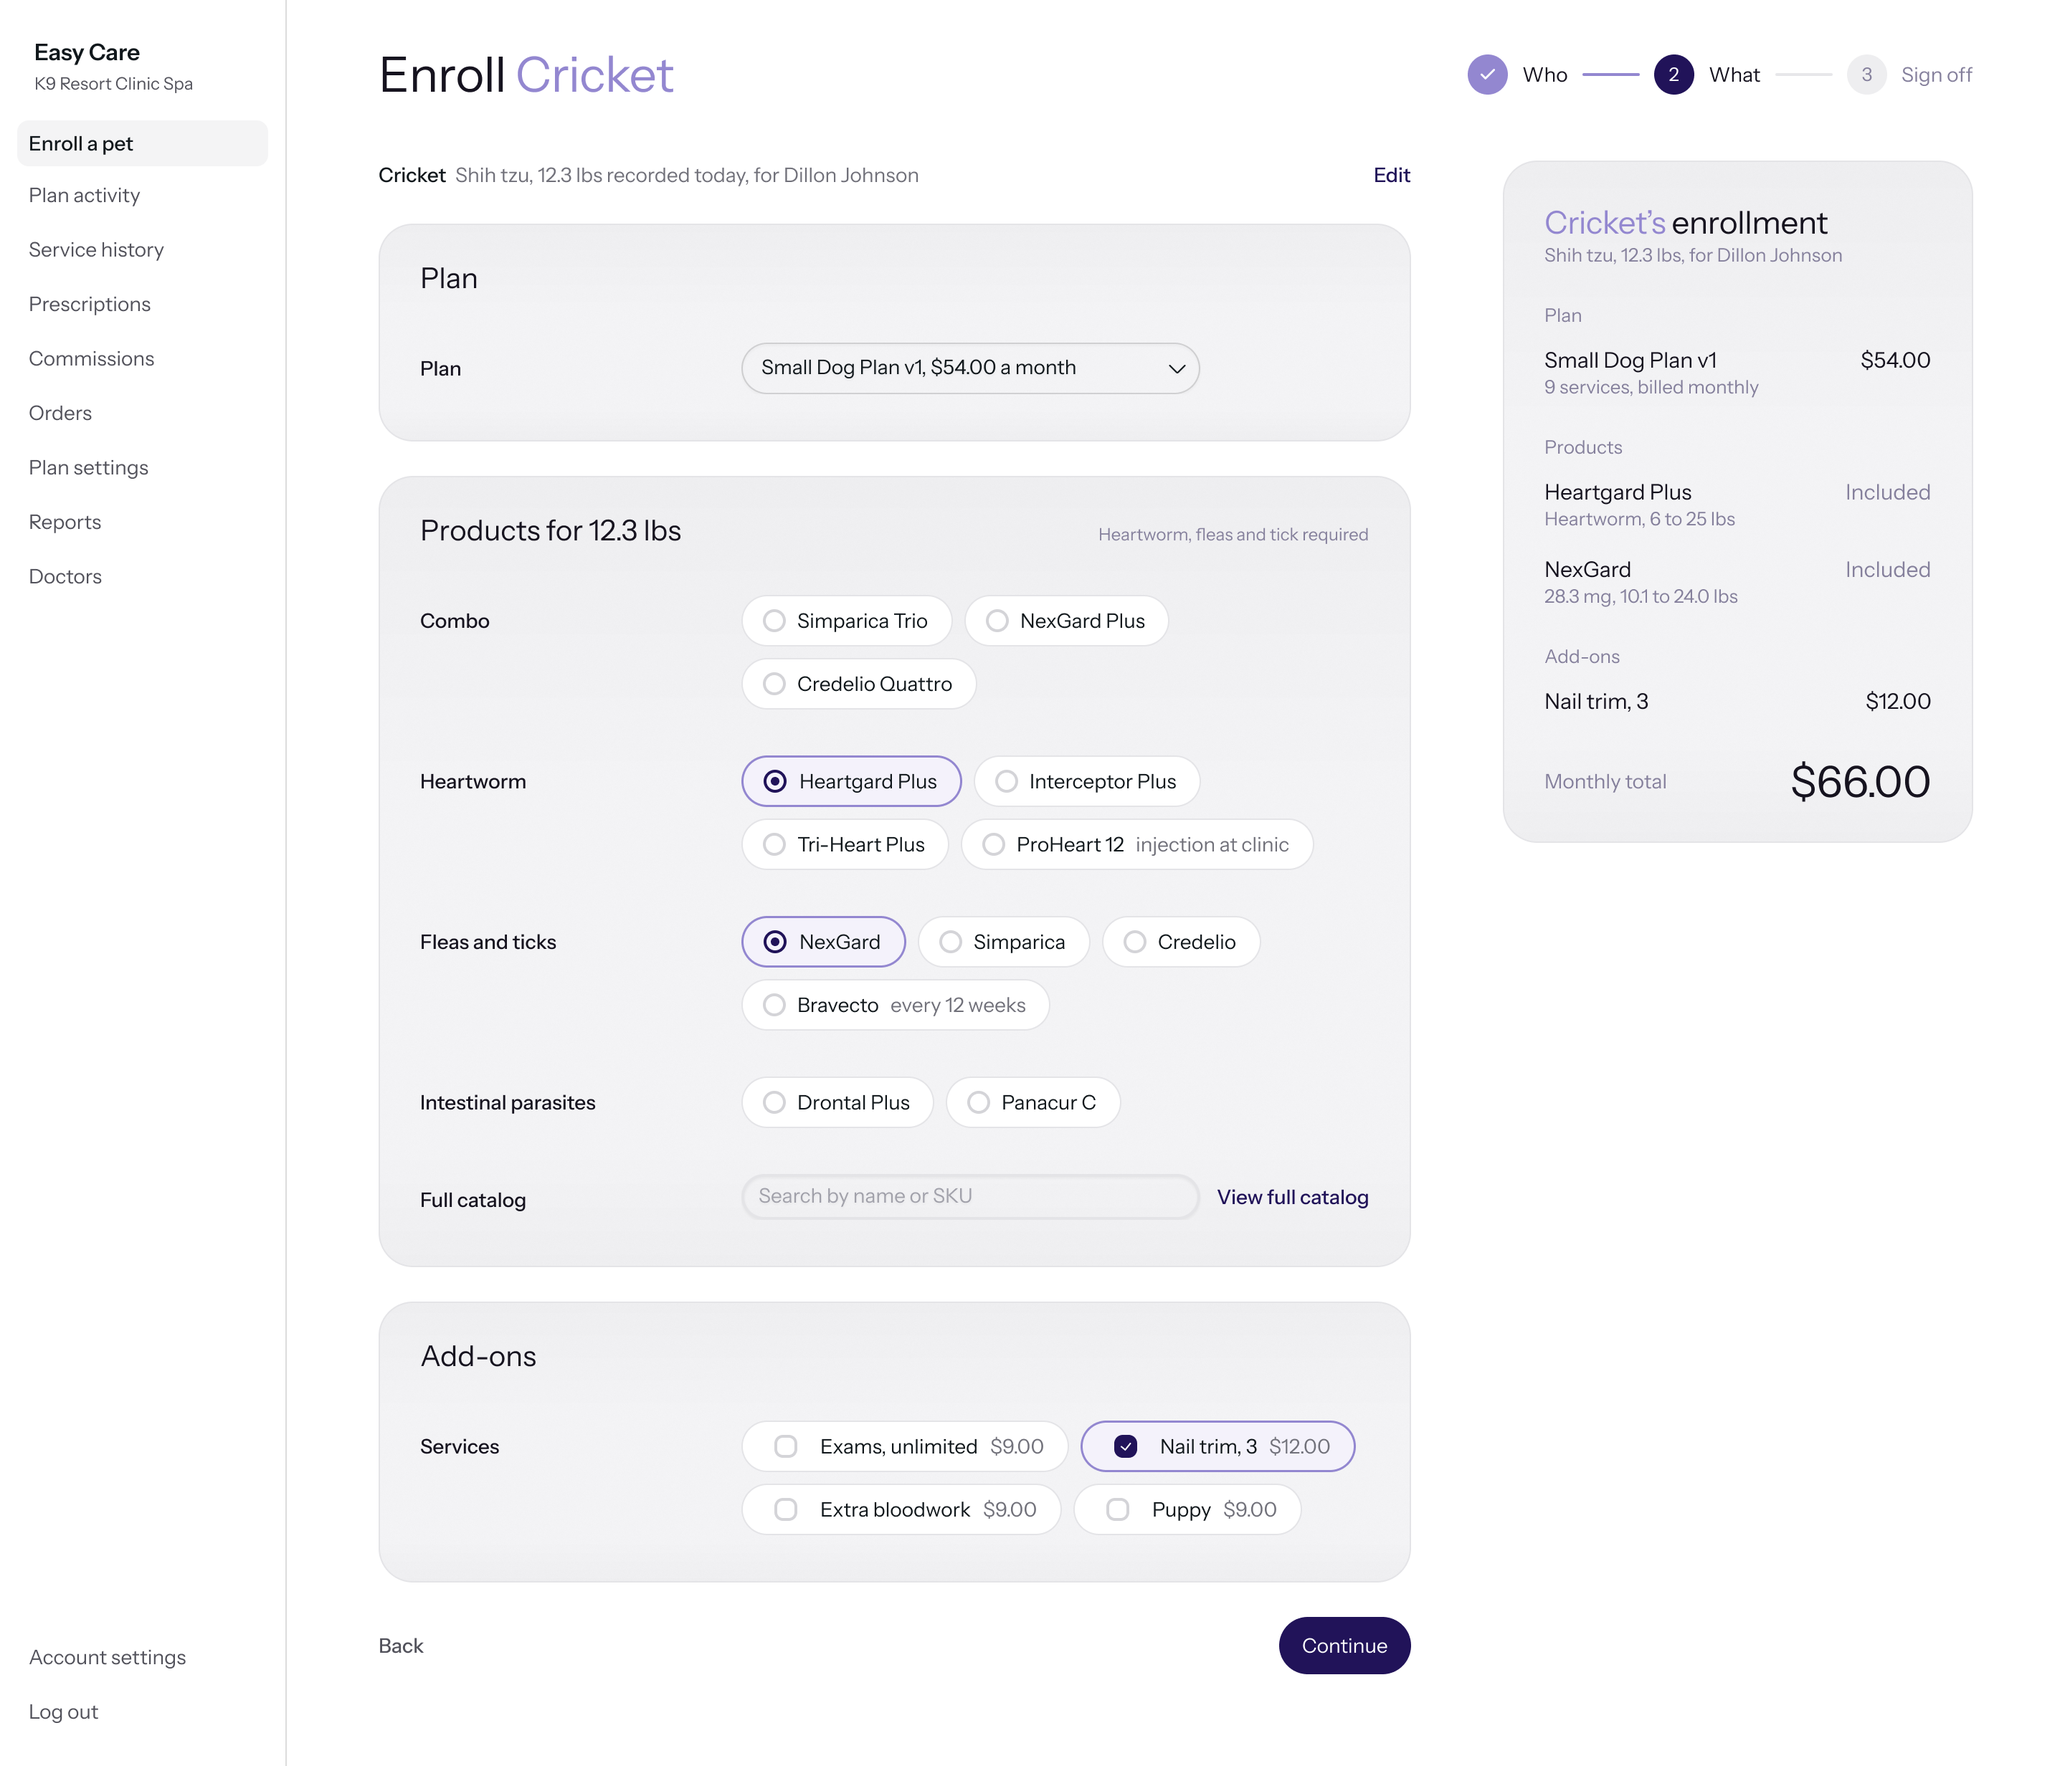
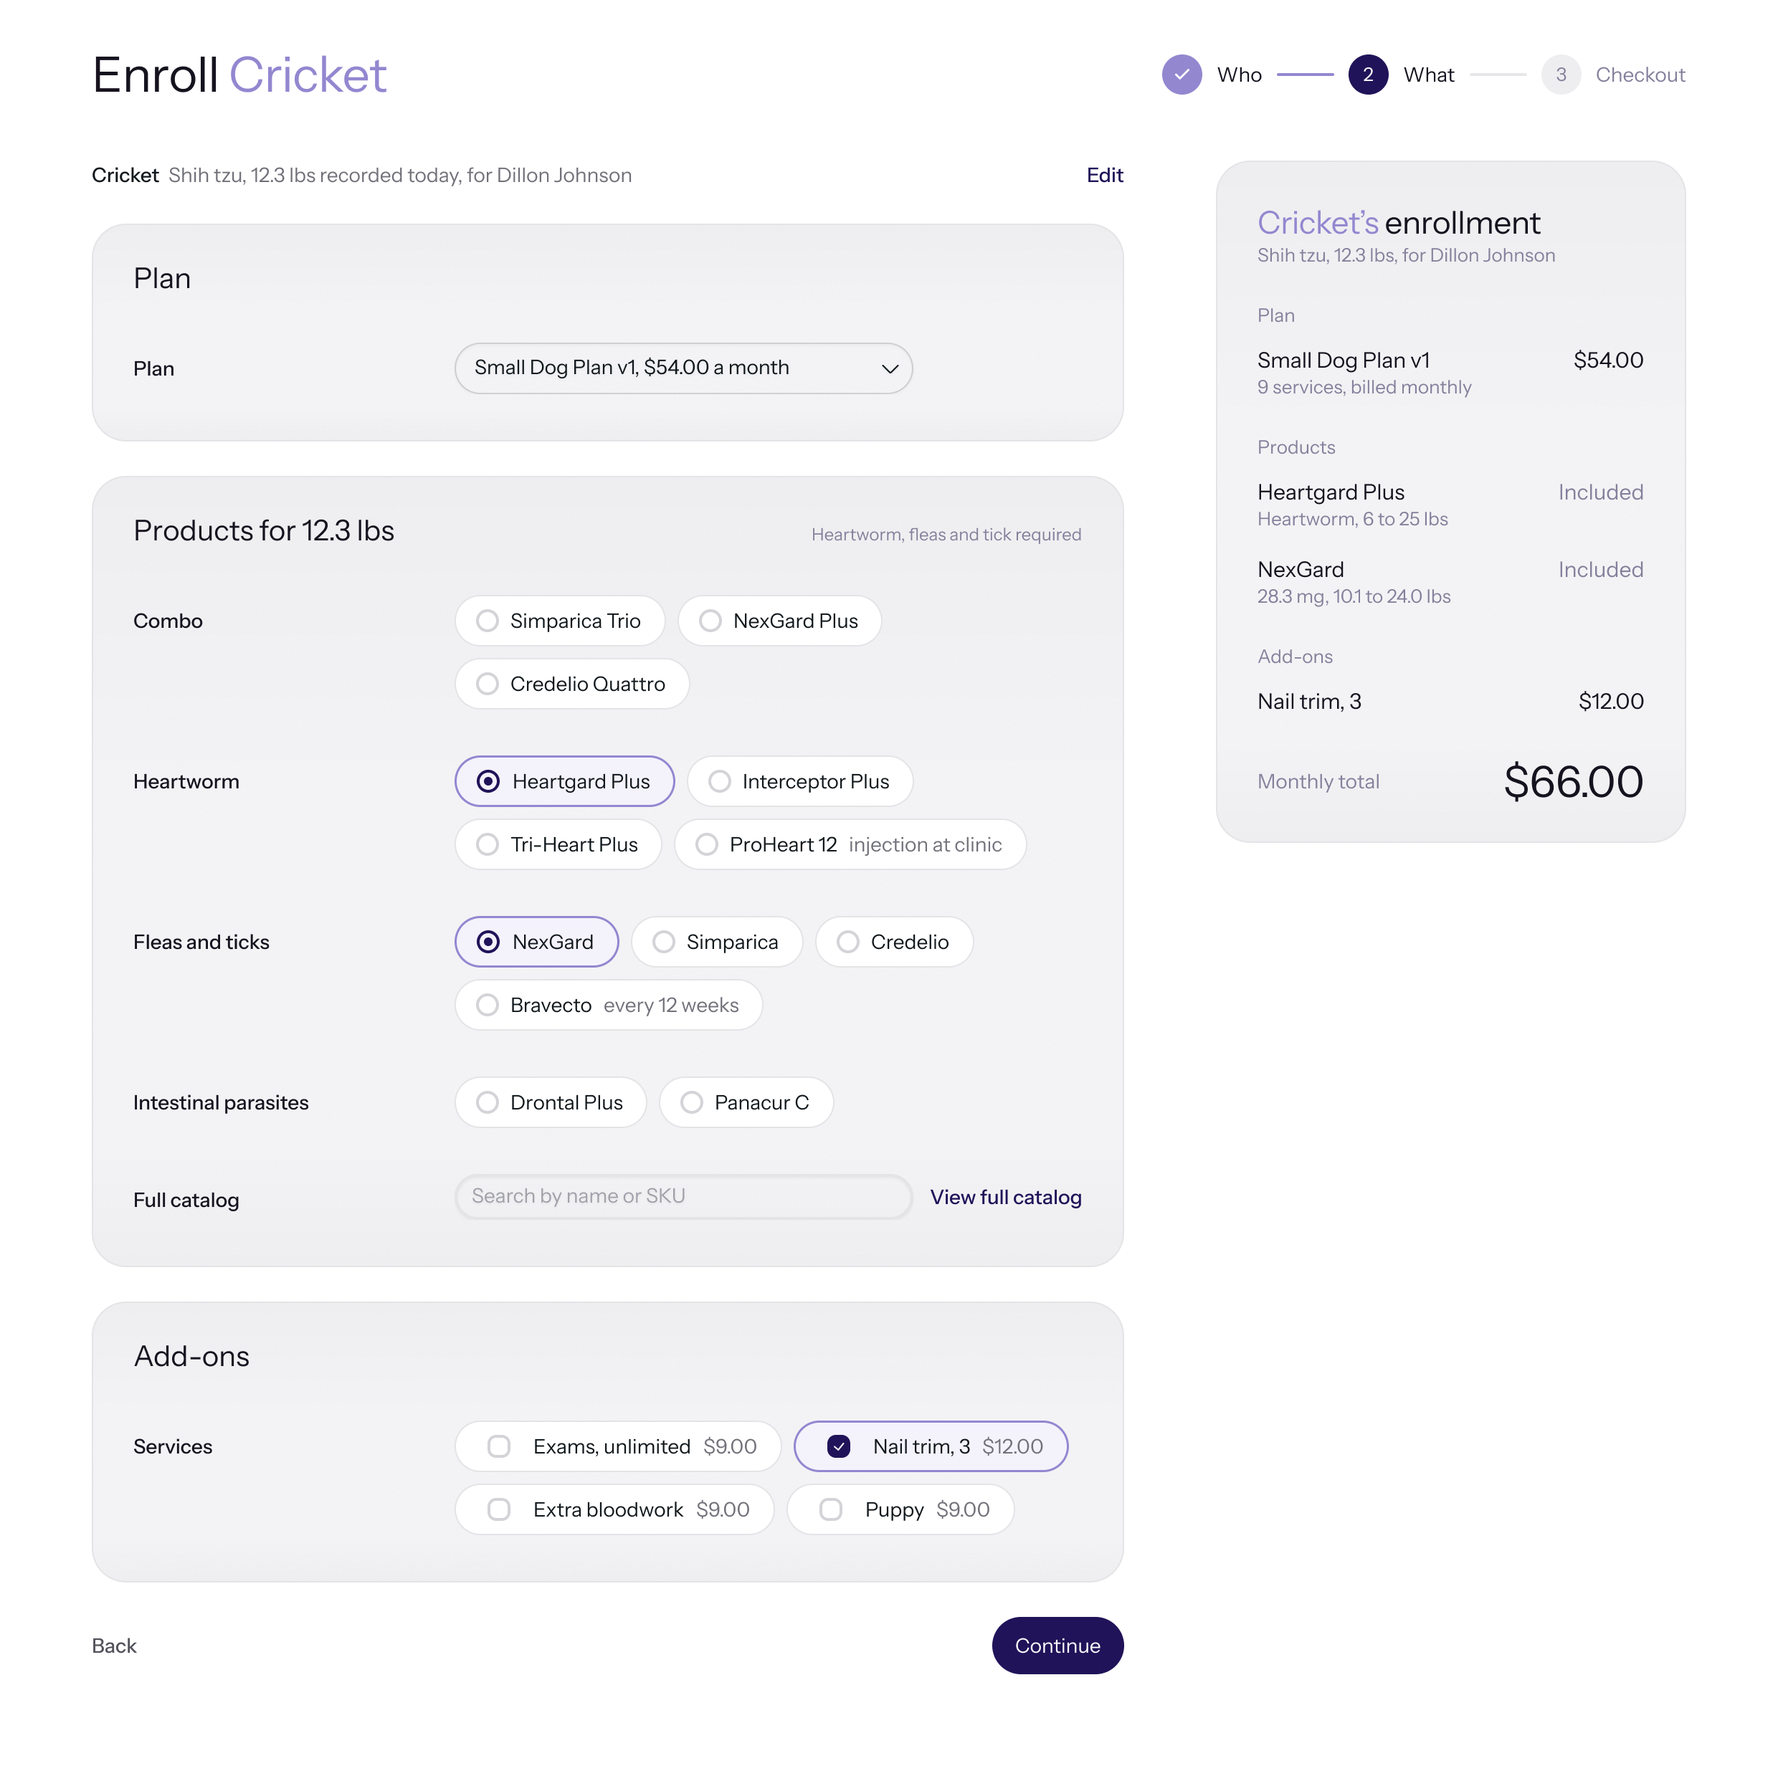
Easy Care: What screen without side nav

diff --git a/src/components/case/lightbox.tsx b/src/components/case/lightbox.tsx
@@ -46,7 +46,7 @@ export function Lightbox({
         type="button"
         onClick={() => setOpen(true)}
         aria-label={`Open ${alt} full size`}
-        className={`block w-full cursor-pointer rounded-md focus-visible:outline focus-visible:outline-2 focus-visible:outline-offset-2 focus-visible:outline-accent ${bare ? "" : "border border-line"}`}
+        className={`block w-full cursor-default rounded-md focus-visible:outline focus-visible:outline-2 focus-visible:outline-offset-2 focus-visible:outline-accent ${bare ? "" : "border border-line"}`}
       >
         {/* eslint-disable-next-line @next/next/no-img-element */}
         <img src={src} alt={alt} className="block w-full rounded-md" />
